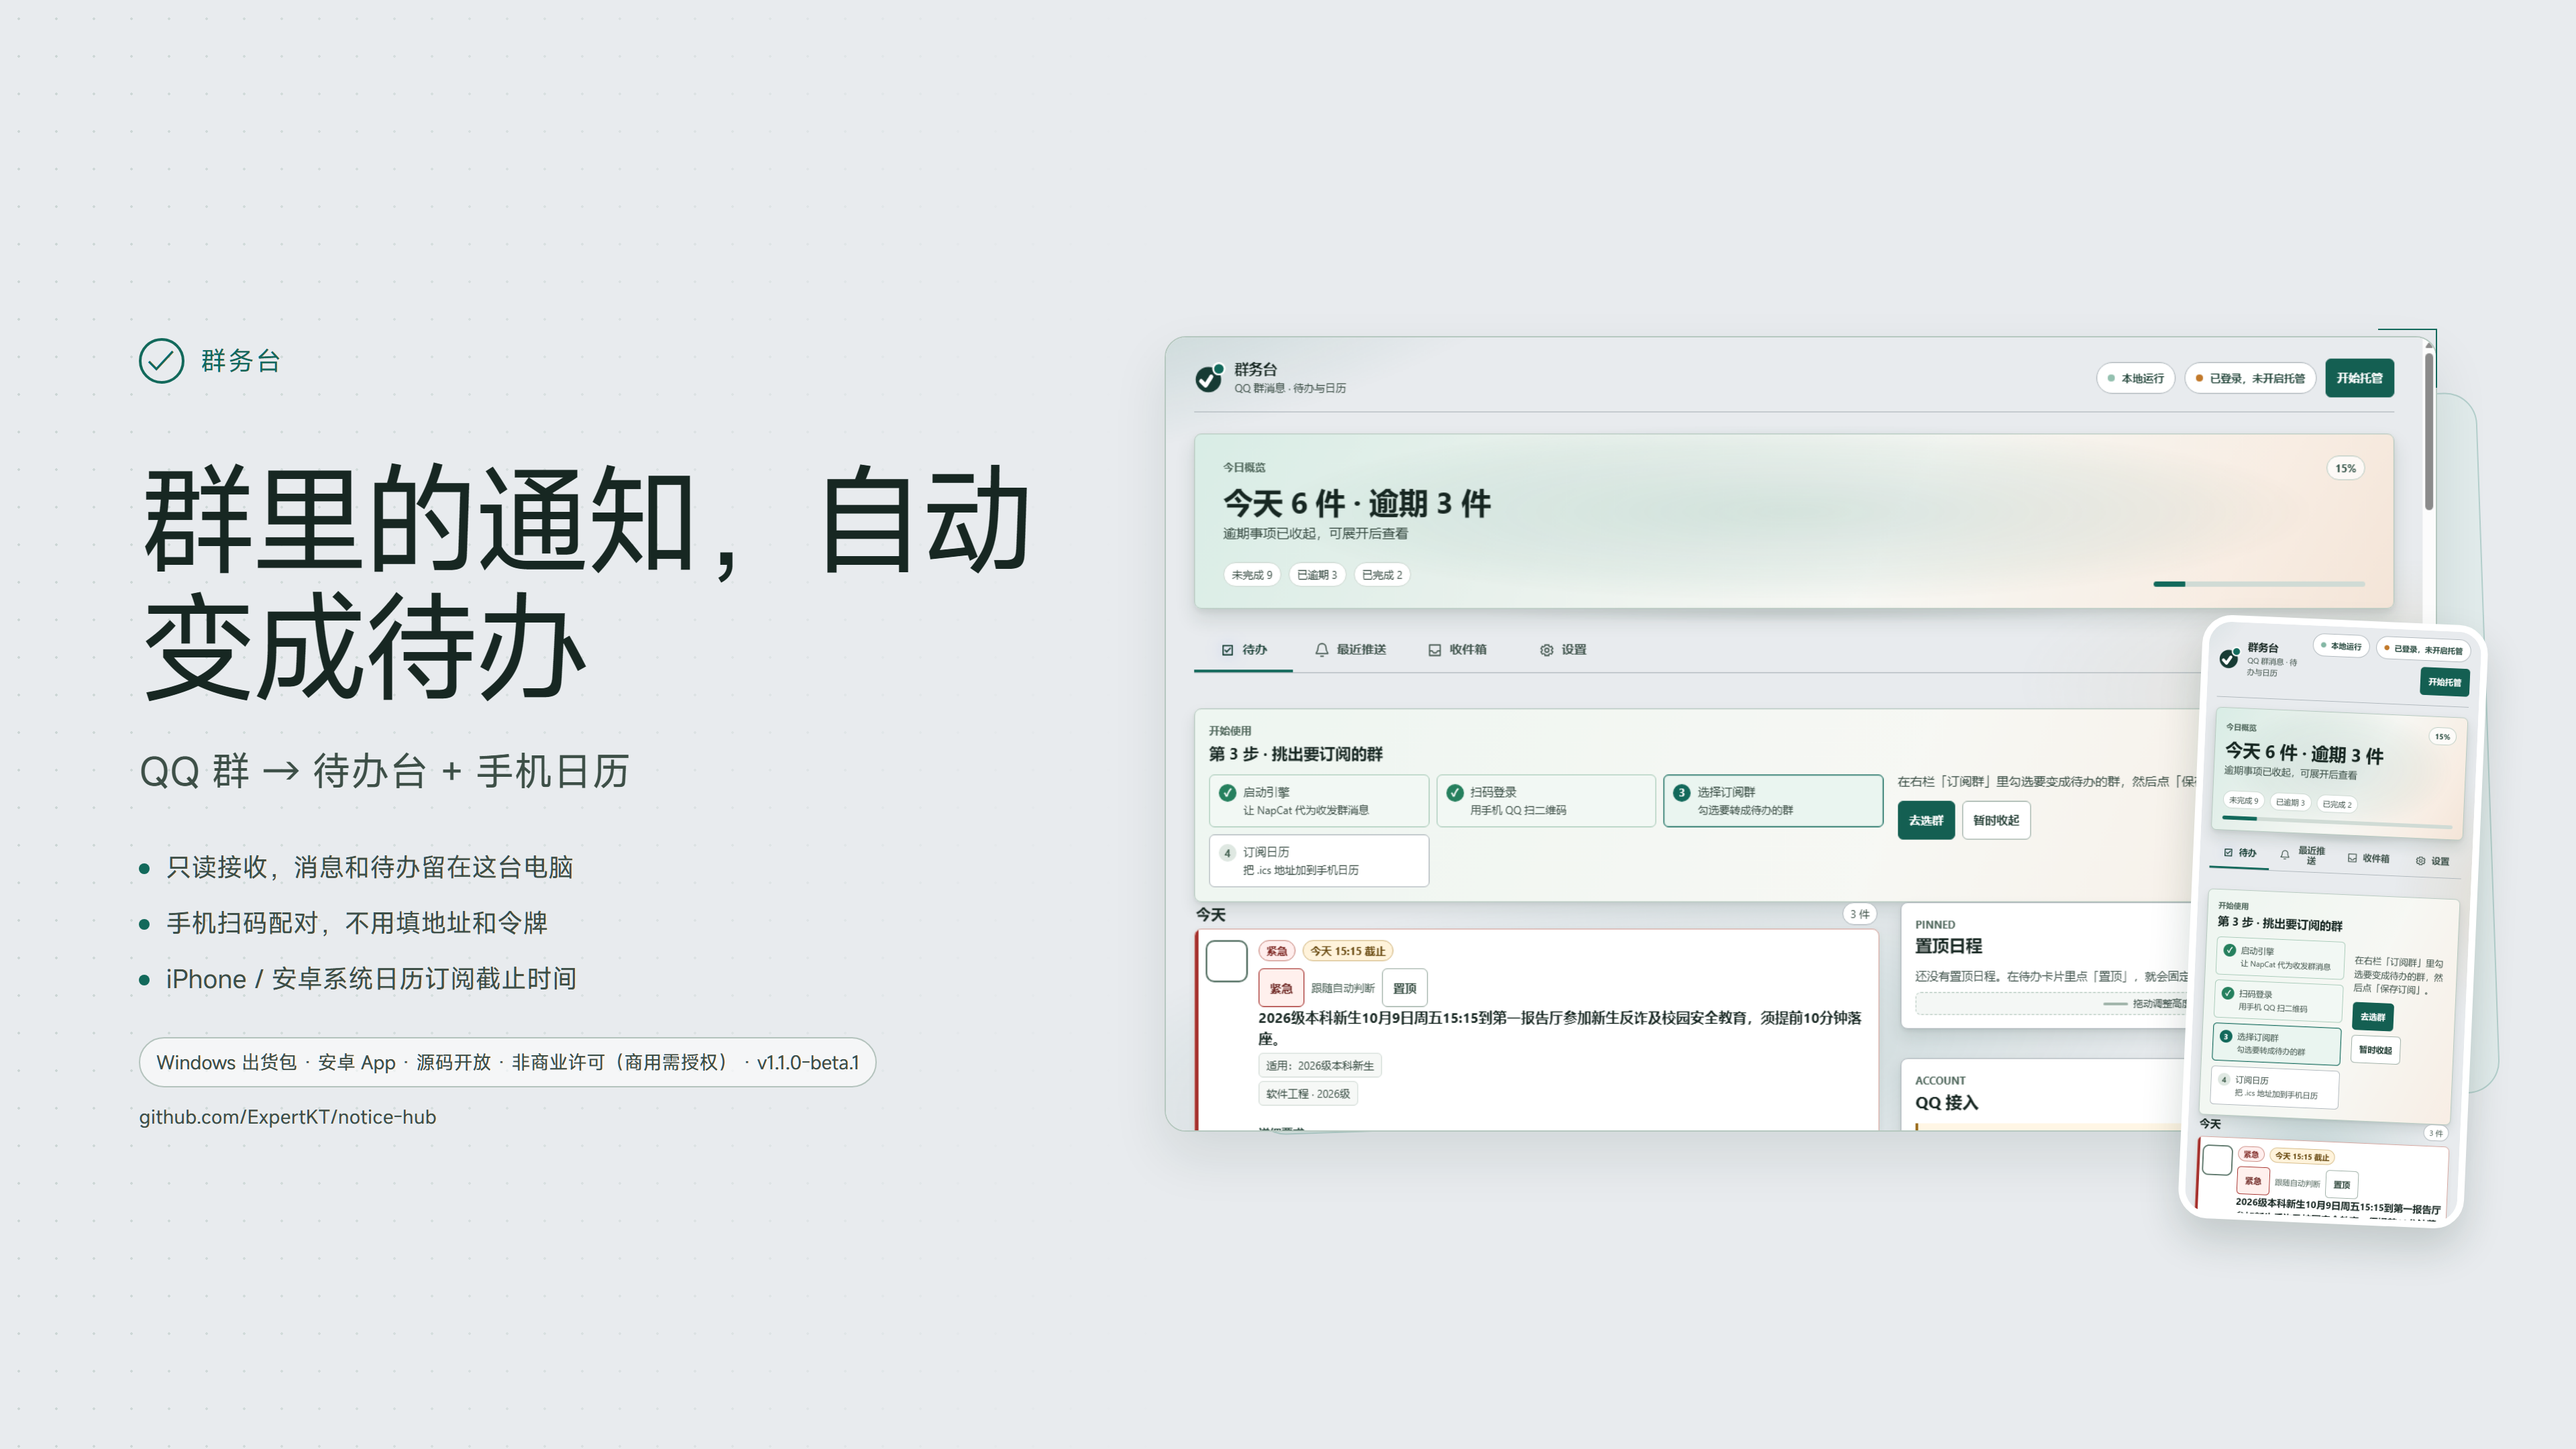
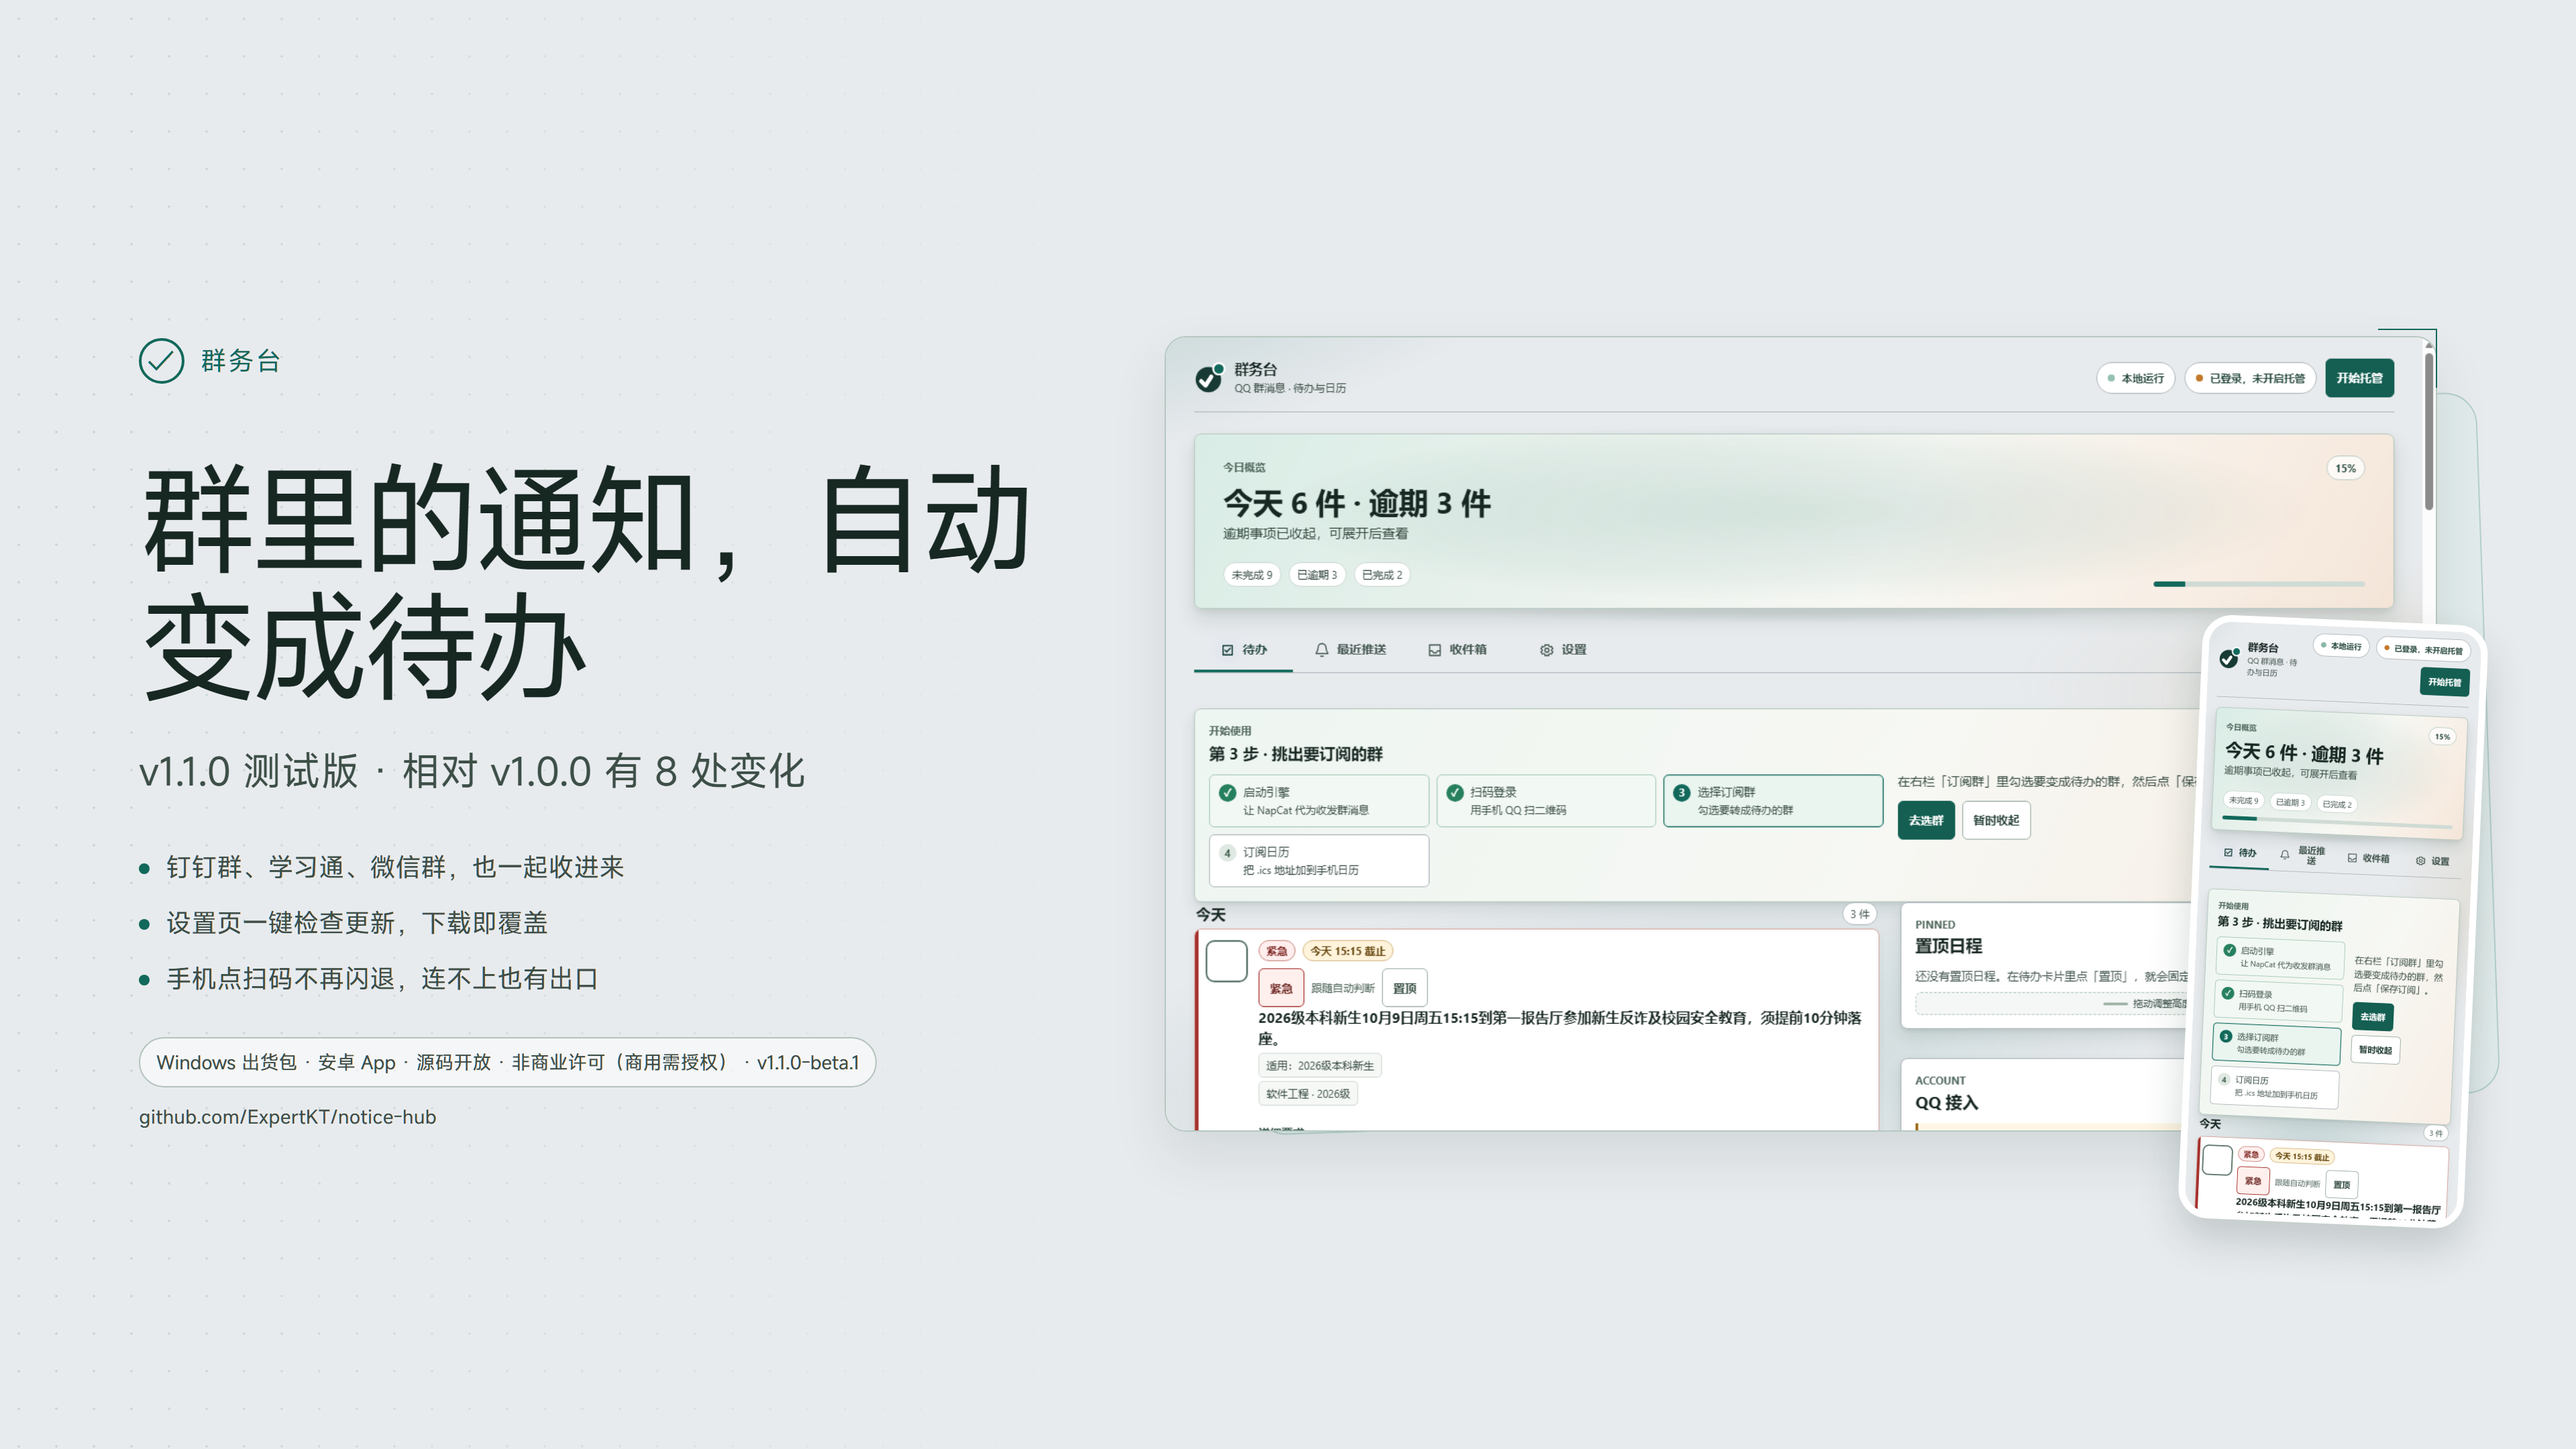
docs: 宣传图改为测试版专题（九宫格 9 张 + 双尺寸海报）

Changed region(s): [[0.0625, 0.5894, 0.25, 0.6824], [0.0625, 0.4963, 0.3125, 0.5583]]

diff --git a/docs/promo/beta-grid.html b/docs/promo/beta-grid.html
@@ -1,0 +1,108 @@
+<!doctype html>
+<html lang="zh-CN">
+<head>
+<meta charset="utf-8">
+<title>群务台 · v1.1.0 测试版 九宫格</title>
+<style>
+:root{
+  --paper:#fff;--ink:#172722;--muted:#3d4f47;--line:#dfe4e2;
+  --teal:#12695b;--teal-soft:#d6ede7;--warm:#f7efe8;
+  --font:"MiSans","HarmonyOS Sans","PingFang SC","Microsoft YaHei",sans-serif;
+}
+*{box-sizing:border-box}
+html,body{margin:0;background:#e8ebee;font-family:var(--font);font-synthesis:none;color:var(--ink)}
+.sheet{width:3240px;height:3240px;display:grid;grid-template-columns:repeat(3,1080px);grid-template-rows:repeat(3,1080px)}
+.tile{position:relative;overflow:hidden;background:var(--paper);padding:88px 84px;display:flex;flex-direction:column}
+.tile:after{content:"";position:absolute;left:0;right:0;bottom:0;height:10px;background:var(--teal);opacity:.10}
+.idx{font-size:26px;font-weight:700;letter-spacing:.26em;color:var(--teal)}
+.chip{position:absolute;top:80px;right:84px;padding:12px 22px;border-radius:999px;background:var(--teal-soft);color:var(--teal);font-size:25px;font-weight:700;letter-spacing:.06em}
+.chip.fix{background:#f6e7dd;color:#8a4b1e}
+h2{margin:auto 0 0;font-size:68px;line-height:1.13;letter-spacing:-.035em;font-weight:750}
+p{margin:32px 0 auto;font-size:33px;line-height:1.52;color:var(--muted);font-weight:500}
+.foot{margin-top:0;padding-top:34px;display:flex;align-items:center;gap:14px;font-size:24px;color:#6b7d76;letter-spacing:.02em}
+.foot b{width:8px;height:8px;border-radius:50%;background:var(--teal);display:inline-block}
+/* 封面 */
+.cover{background:var(--teal);color:#fff;justify-content:space-between}
+.cover:after{background:#fff;opacity:.14}
+.cover .mark{display:flex;align-items:center;gap:16px;font-size:30px;font-weight:700;letter-spacing:.14em}
+.cover .mark i{display:grid;place-items:center;width:52px;height:52px;border:3px solid #fff;border-radius:50%;font-size:30px;font-style:normal;line-height:1}
+.cover .ver{margin-top:auto}
+.cover .ver .v{font-size:132px;line-height:1;letter-spacing:-.05em;font-weight:750}
+.cover .ver .t{margin-top:18px;font-size:60px;font-weight:700;letter-spacing:.02em}
+.cover .lead{margin-top:36px;font-size:33px;line-height:1.5;color:#cfe6df;font-weight:500}
+.cover .foot{color:#a9cdc4}
+.cover .foot b{background:#8fd0c0}
+</style>
+</head>
+<body>
+<div class="sheet">
+
+  <section class="tile cover">
+    <div class="mark"><i>✓</i><span>群务台</span></div>
+    <div class="ver">
+      <div class="v">v1.1.0</div>
+      <div class="t">测试版 Beta</div>
+      <p class="lead">群里的通知，自动变成待办。<br>相对 v1.0.0 正式版，这一版有 8 处变化 —— 往后翻。</p>
+    </div>
+    <div class="foot"><b></b><span>github.com/ExpertKT/notice-hub</span></div>
+  </section>
+
+  <section class="tile">
+    <span class="idx">01</span><span class="chip">新增</span>
+    <h2>钉钉群、学习通、微信群<br>也一起收进来</h2>
+    <p>v1.0.0 只认 QQ 群。这版多了三条来源：钉钉群消息、学习通作业与考试、微信群。</p>
+    <div class="foot"><b></b><span>群务台 · v1.1.0 测试版</span></div>
+  </section>
+
+  <section class="tile">
+    <span class="idx">02</span><span class="chip">新增</span>
+    <h2>设置页一键检查更新，<br>下载即覆盖</h2>
+    <p>不用再手动解压、不用去 Releases 找包。查到新版本 → 下载 → 就地覆盖，并校验 sha256；你的 .env 和 data 不动。</p>
+    <div class="foot"><b></b><span>群务台 · v1.1.0 测试版</span></div>
+  </section>
+
+  <section class="tile">
+    <span class="idx">03</span><span class="chip">新增</span>
+    <h2>接入自检：<br>卡住时告诉你卡在哪</h2>
+    <p>把「能不能收消息」逐段查开，直接指出第一处断点该修什么。顺带修掉根因——扫码登录成功、页面却毫无反应。</p>
+    <div class="foot"><b></b><span>群务台 · v1.1.0 测试版</span></div>
+  </section>
+
+  <section class="tile">
+    <span class="idx">04</span><span class="chip fix">修复</span>
+    <h2>手机点扫码，<br>不再闪退</h2>
+    <p>v1.0.0 的包一进扫码页就崩：扫码库少声明了 androidx.core。现已补上，实测点扫码 → 取景框 → 相机权限 → 返回，全程不崩。</p>
+    <div class="foot"><b></b><span>群务台 · v1.1.0 测试版</span></div>
+  </section>
+
+  <section class="tile">
+    <span class="idx">05</span><span class="chip">新增</span>
+    <h2>连不上、令牌失效，<br>都有出口</h2>
+    <p>三种状态分别给不同提示，页面上多了「重新配对」按钮。以前只有长按返回键一条暗路，App 里没有任何文字提示。</p>
+    <div class="foot"><b></b><span>群务台 · v1.1.0 测试版</span></div>
+  </section>
+
+  <section class="tile">
+    <span class="idx">06</span><span class="chip fix">修复</span>
+    <h2>扫码页不再横着</h2>
+    <p>扫码库自带清单把这一页钉成了横屏，现在跟随手机方向。</p>
+    <div class="foot"><b></b><span>群务台 · v1.1.0 测试版</span></div>
+  </section>
+
+  <section class="tile">
+    <span class="idx">07</span><span class="chip">新增</span>
+    <h2>收件箱里<br>能看见附件图</h2>
+    <p>QQ 群里的图片附件直接显示在收件箱，正文照常保留；取图接口要鉴权，只认唯一文件，只送图片。</p>
+    <div class="foot"><b></b><span>群务台 · v1.1.0 测试版</span></div>
+  </section>
+
+  <section class="tile">
+    <span class="idx">08</span><span class="chip fix">修复</span>
+    <h2>一批「看着正常<br>其实断了」的毛病</h2>
+    <p>旧公告被当成 6 小时新鲜、端口被占用时启动卡在弹框上、启动失败乱猜原因、学习通空值当合法课程——都修了。</p>
+    <div class="foot"><b></b><span>群务台 · v1.1.0 测试版</span></div>
+  </section>
+
+</div>
+</body>
+</html>

diff --git a/docs/promo/poster.html b/docs/promo/poster.html
@@ -18,11 +18,11 @@
     <section class="copy">
       <div class="brand"><span class="brand-mark">✓</span><span>群务台</span></div>
       <h1 class="title">群里的通知，自动变成待办</h1>
-      <p class="subtitle">QQ 群 → 待办台 + 手机日历</p>
+      <p class="subtitle">v1.1.0 测试版 · 相对 v1.0.0 有 8 处变化</p>
       <ul class="points">
-        <li>只读接收，消息和待办留在这台电脑</li>
-        <li>手机扫码配对，不用填地址和令牌</li>
-        <li>iPhone / 安卓系统日历订阅截止时间</li>
+        <li>钉钉群、学习通、微信群，也一起收进来</li>
+        <li>设置页一键检查更新，下载即覆盖</li>
+        <li>手机点扫码不再闪退，连不上也有出口</li>
       </ul>
       <div class="footer"><span class="badge">Windows 出货包 · 安卓 App · 源码开放 · 非商业许可（商用需授权） · v1.1.0-beta.1</span><span class="url">github.com/ExpertKT/notice-hub</span></div>
     </section>
